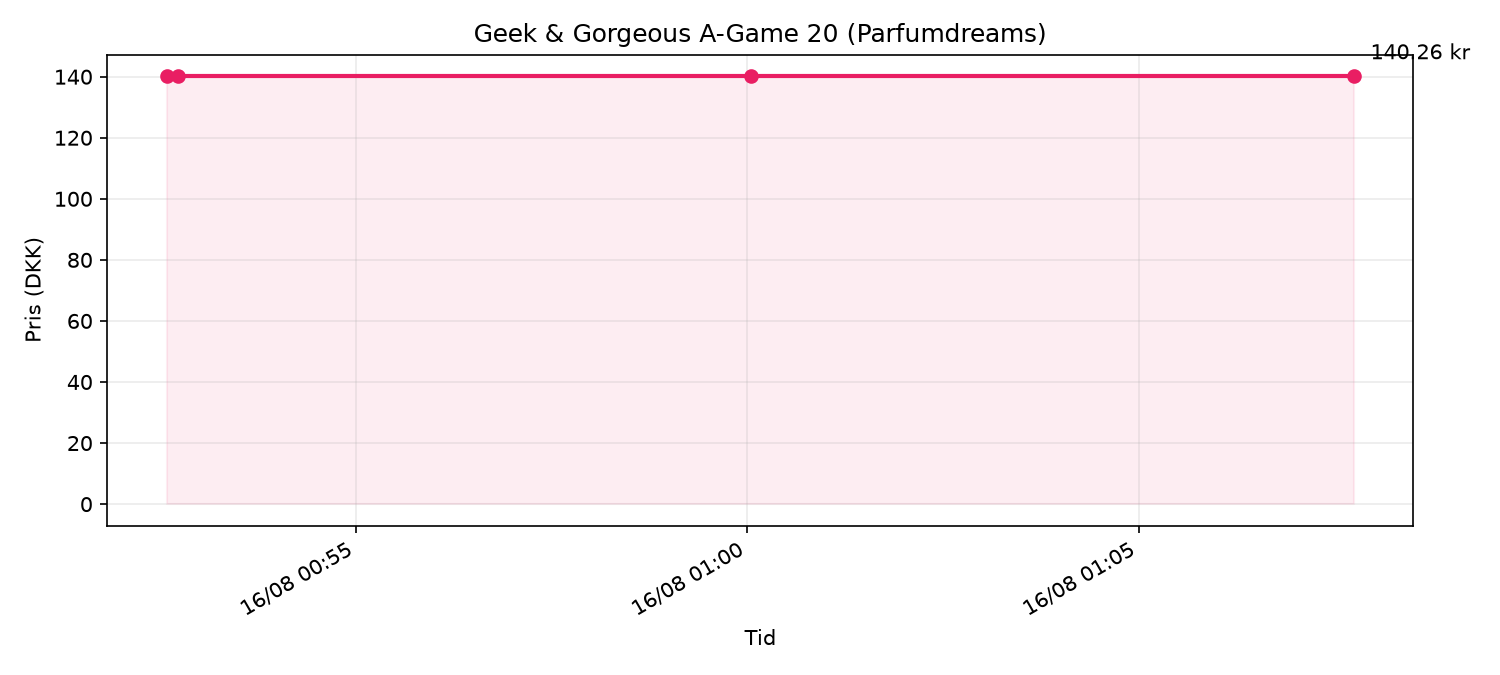
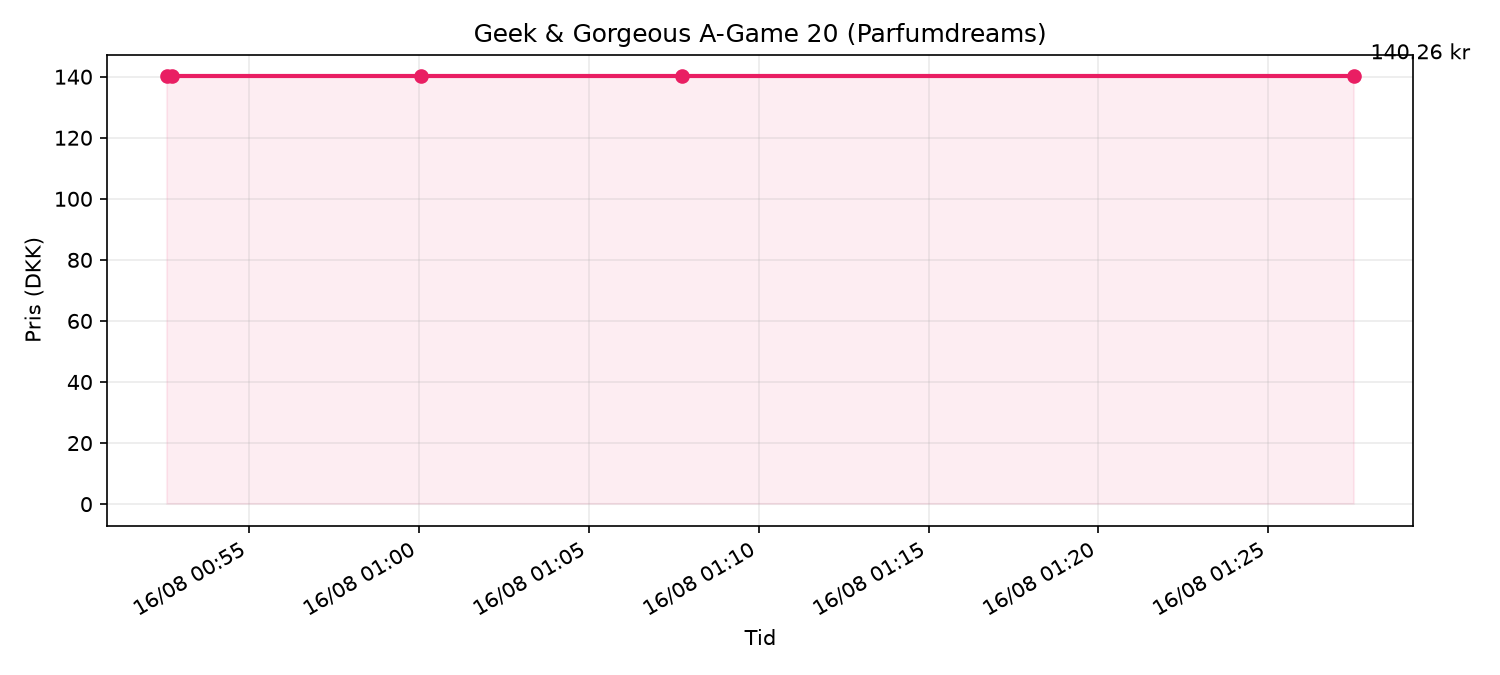
price check 2026-08-15T23:27Z

diff --git a/data/price_chart.html b/data/price_chart.html
@@ -13,7 +13,7 @@
 </head>
 <body>
   <h1>Geek & Gorgeous A-Game 20 (Parfumdreams)</h1>
-  <p class="meta">Senest tjekket: 16/08/2026 01:07 · Pris: <strong>140.26 kr</strong> · på lager</p>
+  <p class="meta">Senest tjekket: 16/08/2026 01:27 · Pris: <strong>140.26 kr</strong> · på lager</p>
   
   <p><a href="https://www.parfumdreams.dk/Geek-Gorgeous/Samlinger/101-aktive-stoffer/A-Game-20-Serum/index_137083.aspx?variation=221879">Åbn produkt på Parfumdreams</a></p>
   <img src="price_chart.png" alt="Prisgraf">
